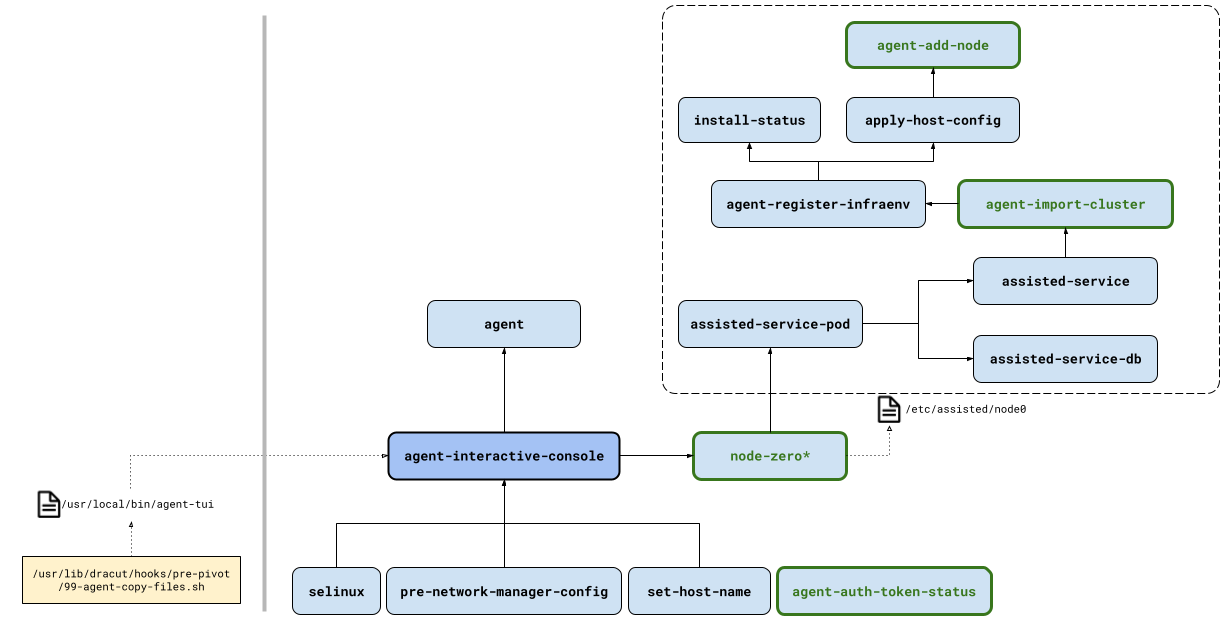
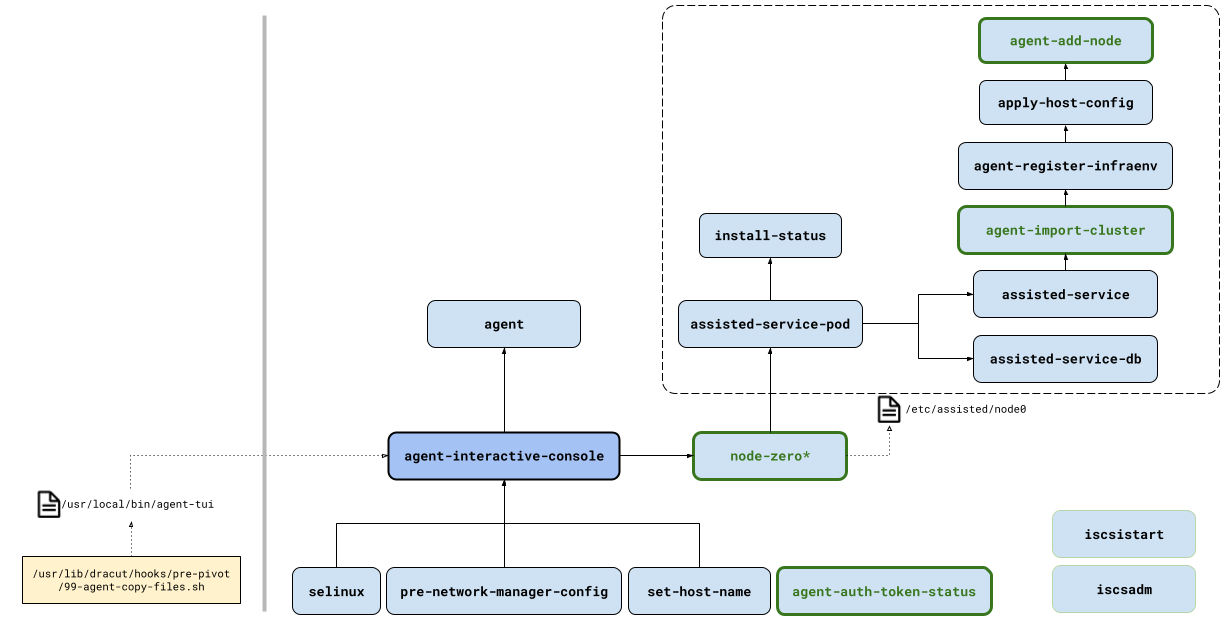
docs update

Changed region(s): [[0.5261, 0.0, 0.9593, 0.5143], [0.8355, 0.7866, 0.9902, 0.9984]]

diff --git a/docs/user/agent/agent-services.md b/docs/user/agent/agent-services.md
@@ -39,14 +39,25 @@ the following exceptions (highlighted in green in the previous picture):
 
 ----
 
-## Appliance flow using unconfigured ignition and config image
+## Appliance workflow (unconfigured ignition and config image)
 
-![Appliance Flow](./agent_installer_services-unconfigured_ignition_and_config_image_flow.png)
+![Appliance workflow](./agent_installer_services-unconfigured_ignition_and_config_image_flow.png)
 
-In the appliance flow, most of the cluster deployment information is included in a config image that is mounted
+In the appliance workflow, most of the cluster deployment information is included in a config image that is mounted
 onto the host running the unconfigured-ignition. The appliance flow does not include the agent-tui or the
 agent-interactive-console service because the disk images generated in the factory contains the release payload
 so no connectivity checks to the release image is needed.
 
 * load-config-iso@ - detects the config image has been mounted and copies the cluster configuration files from the config image to the host. It also enables start-cluster-installation which is disabled by default in the unconfigured-ignition. The actual service is created when the config image is mounted as a device and its name will be load-config-iso@<dev-name>.service e.g load-config-iso@-dev-sr1.service
 * agent-check-config-image - if the config image has not been mounted, it displays a message to the console asking for the config image to be mounted in order to start the cluster installation.
+
+----
+
+## Interactive workflow (unconfigured ignition --interactive)
+
+![Interactive workflow](./agent_installer_services-interactive.png)
+
+The interactive workflow allows the user to install a cluster by using the assisted UI running on the rendezvous node. In this workflow
+the agent-tui is also used interactively to configure which node will be the rendezvous host, and to configure accordingly the other nodes.
+
+* agent-start-ui - runs the assisted UI on the rendezvous node
